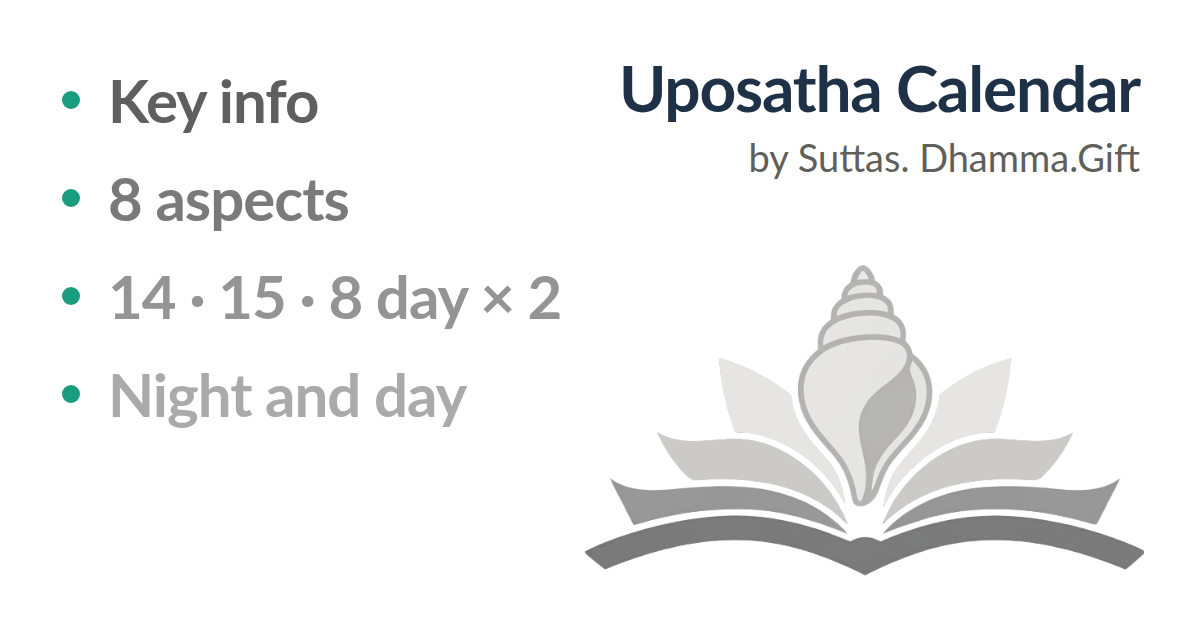
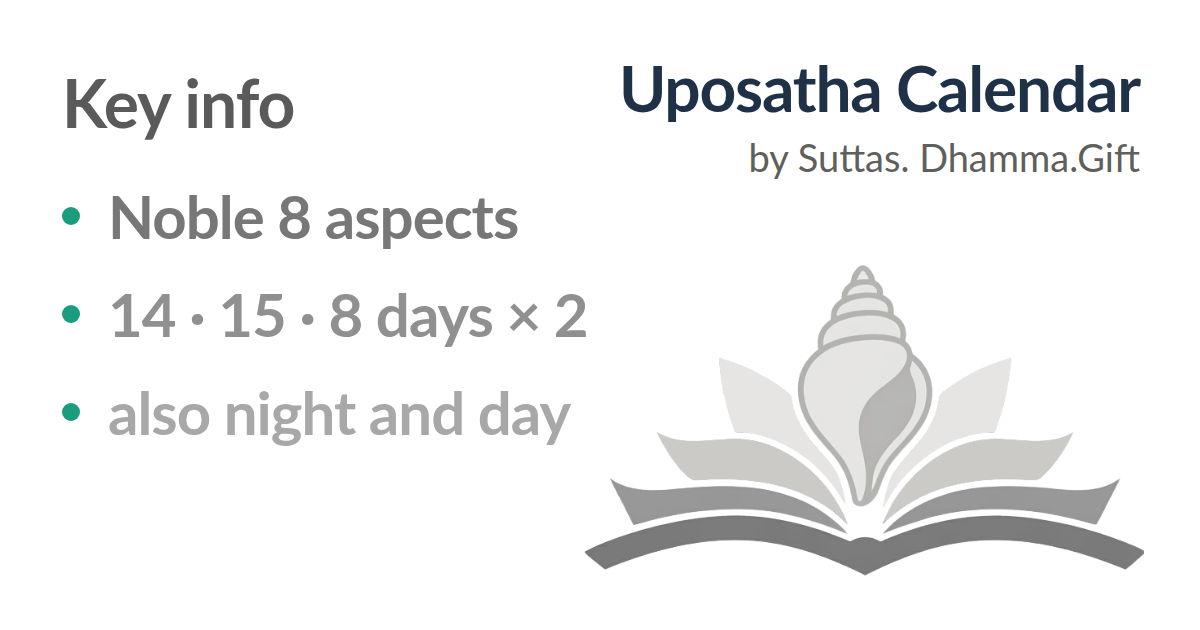
Uposatha link preview: Key info as a heading, then Noble 8 aspects / 14 15 8 days x 2 / also night and day
Claude-Session: https://claude.ai/code/session_01E4yKH26RV8vZ6cWu3j8v2W

diff --git a/public/uposatha-calendar.html b/public/uposatha-calendar.html
@@ -17,7 +17,7 @@
 <meta property="og:image" content="https://dhamma.gift/assets/img/og-uposatha-en.png">
 <meta property="og:image:width" content="1200">
 <meta property="og:image:height" content="630">
-<meta property="og:image:alt" content="Uposatha Calendar by Suttas. Dhamma.Gift: key info, 8 aspects, 14 · 15 · 8 day × 2, night and day.">
+<meta property="og:image:alt" content="Uposatha Calendar by Suttas. Dhamma.Gift: key info, noble 8 aspects, 14 · 15 · 8 days × 2, also night and day.">
 <meta name="twitter:card" content="summary_large_image">
 <meta name="twitter:title" content="Uposatha Days by Suttas. Dhamma.Gift">
 <meta name="twitter:description" content="Which days, when to begin, how to keep the Uposatha, from the suttas: with exact times for your place.">
